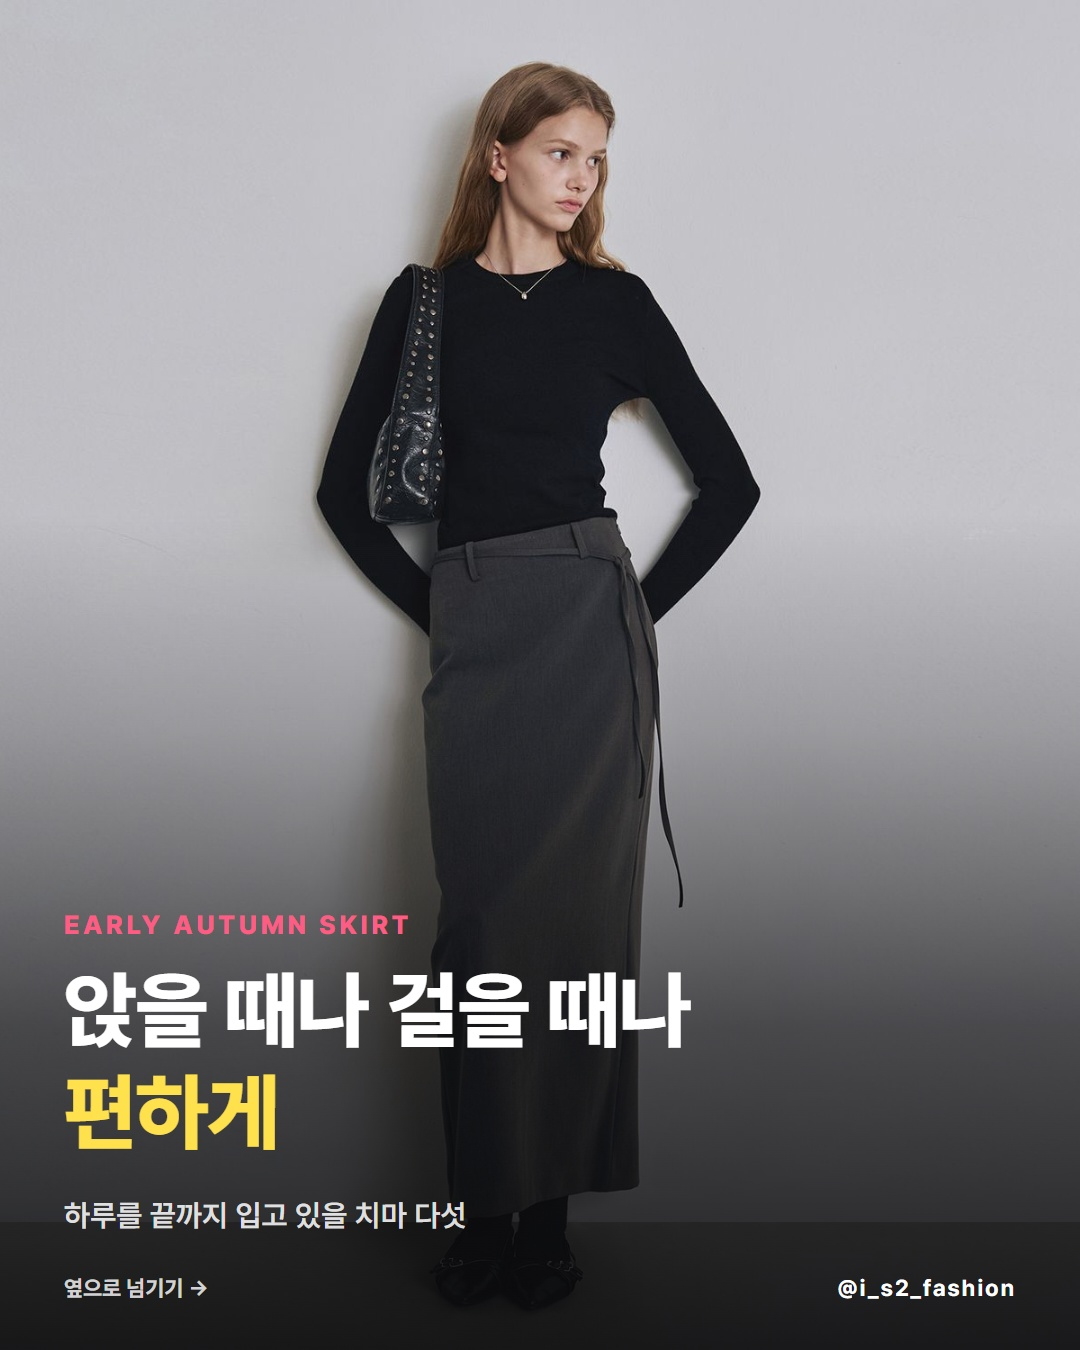
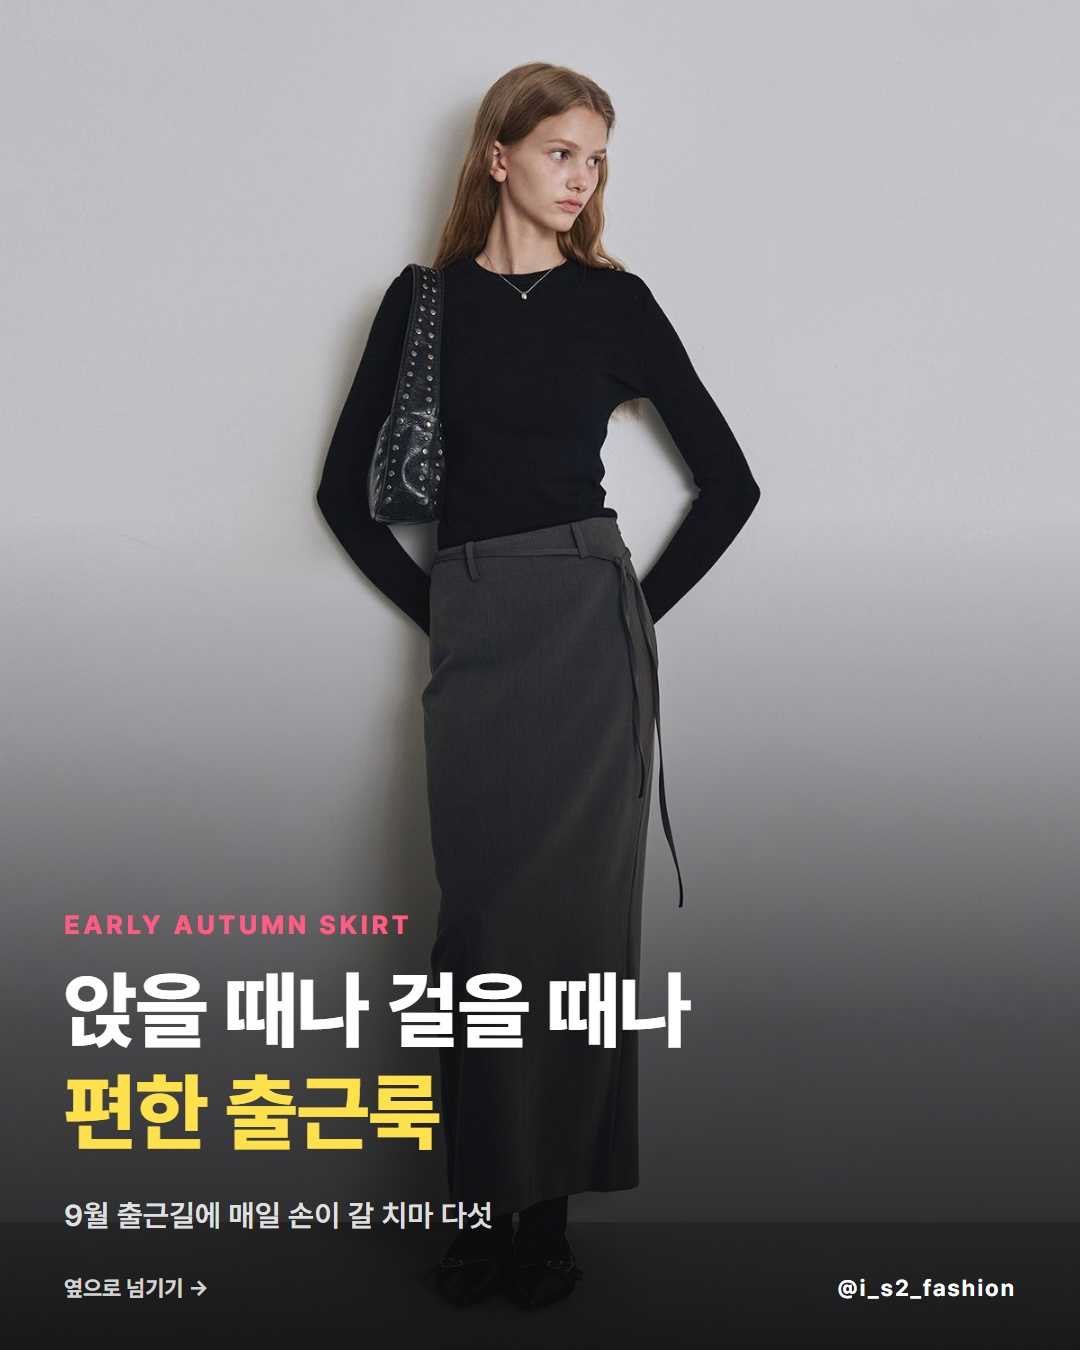
fix: 가을 스커트 소구문구를 출근룩으로 (사용자 지시)
표지 "앉을 때나 걸을 때나 / 편한 출근룩" · 서브 "9월 출근길에 매일 손이 갈 치마 다섯"
캡션 출근 맥락으로 재작성. 출근 언급 후기 근거(노우드6·커스텀어클락5·틸아이다이3·로에일1,
드로우핏0)를 result.md 에 기록.

Claude-Session: https://claude.ai/code/session_01DHzxXbsUDjvNN5eDKaHB8r

Changed region(s): [[0.0611, 0.7778, 0.4583, 0.9333]]

diff --git a/card-drafts/early-autumn-skirt/index.html b/card-drafts/early-autumn-skirt/index.html
@@ -67,7 +67,7 @@
 </style></head><body><div class="head"><h1>가을 스커트 카드뉴스 · 전면 이미지형 · @i_s2_fashion</h1><p>표지 → 드로우핏 · 틸아이다이 · 로에일 · 커스텀어클락 · 노우드 → CTA (7장) · 소구점: 활동성<br>2026-09-04 확정 전면 이미지형 · 상품 정보: 무신사·29CM 2026-09-08 실측(저렴한 몰 기준)</p></div><div class="toolbar"><button onclick="exportAll()">⬇ 전체 PNG 내보내기 (7장)</button></div><div class="board" id="board"></div>
 <script src="https://cdnjs.cloudflare.com/ajax/libs/html2canvas/1.4.1/html2canvas.min.js"></script><script>
 const cards=[
-{kind:'cover',img:'assets/cover-costumeoclock.jpg',pos:'50% 50%',lab:'표지',kicker:'EARLY AUTUMN SKIRT',title:'앉을 때나 걸을 때나<br><em>편하게</em>',sub:'하루를 끝까지 입고 있을 치마 다섯'},
+{kind:'cover',img:'assets/cover-costumeoclock.jpg',pos:'50% 50%',lab:'표지',kicker:'EARLY AUTUMN SKIRT',title:'앉을 때나 걸을 때나<br><em>편한 출근룩</em>',sub:'9월 출근길에 매일 손이 갈 치마 다섯'},
 {kind:'item',img:'assets/01-drawfit.jpg',pos:'50% 50%',lab:'드로우핏 우먼',badge:'10%',prod:'드로우핏 우먼 · <b>스티치 플리츠 미니 스커트</b>',title:'<em>계단을 올라도</em><br>부담스럽지 않은 길이',meta:'29CM <s>55,000원</s> 49,500원',proof:'후기 86개 · ⭐ 5.0',sp:'“겨울에 입기에는 조금 얇지만 핏도 예쁘게 잡히고, 길이도 부담스럽지 않을 정도로만 짧아서 계단 올라갈 때도 괜찮습니다 ㅎㅎ” —&nbsp;실제&nbsp;후기'},
 {kind:'item',img:'assets/02-tillidie.jpg',pos:'50% 50%',lab:'틸아이다이',badge:'18%',prod:'틸아이다이 · <b>골드 벨트 랩 스커트</b>',title:'앞트임이 포인트라<br><em>출근룩으로도 괜찮아</em>',meta:'29CM <s>111,000원</s> 91,020원',proof:'후기 358개 · ⭐ 4.5',sp:'“길이 적당하고 편해요. 출근룩으로도 괜찮고 두툼한 편이라 가을 겨울에 입기 좋아요. 먼지는 조금 달라 붙는편이고 앞에 트임이 있어서 포인트됩니다.” —&nbsp;실제&nbsp;후기'},
 {kind:'item',img:'assets/03-loeil.jpg',pos:'50% 50%',lab:'로에일',badge:'20%',prod:'로에일 · <b>마일드 코듀로이 핀턱 스커트</b>',title:'<em>차르르 떨어져서</em><br>다림질이 필요 없어',meta:'29CM <s>72,500원</s> 58,000원',proof:'후기 155개 · ⭐ 4.5',sp:'“길이가 참 길어요. 편안하게 입을 수 있네요. 허리가 밴딩이 아니어서 밥먹으면 꼭 끼지만.. 붕 뜨지 않아 좋아요 차르르 떨어져 다림질 필요 없네요” —&nbsp;실제&nbsp;후기'},

diff --git a/card-drafts/early-autumn-skirt/_preview.html b/card-drafts/early-autumn-skirt/_preview.html
@@ -15,9 +15,9 @@
   <div class="cards" id="cards"></div>
   <div class="caption">치마를 안 입게 되는 이유는 대개 예쁘지 않아서가 아니었어요 🍂
 
-앉으면 구겨지고, 계단에서 자꾸 잡아당기게 되고, 몇 시간 지나면 허리가 배기더라고요. 그래서 이번엔 예쁜 순서가 아니라 입고 있는 걸 잊고 지낼 수 있는지를 먼저 봤습니다. 다섯 벌 모두 후기에 그 얘기가 있습니다 🧺
+앉으면 구겨지고, 계단에서 자꾸 잡아당기게 되고, 몇 시간 지나면 허리가 배기더라고요. 아침에 입고 저녁까지 버텨야 하는 옷이면 그게 먼저입니다. 그래서 예쁜 순서가 아니라 사무실에서 하루를 보내도 신경 쓰이지 않는지를 기준으로 골랐습니다 🧺
 
-옷장에서 제일 안 꺼내게 되는 치마, 이유가 뭐예요 💬
+출근할 때 제일 자주 꺼내는 치마는 어떤 거예요 💬
 
 📌 브랜드 계정
 드로우핏 우먼 @drawfit_women

diff --git a/card-drafts/early-autumn-skirt/result.md b/card-drafts/early-autumn-skirt/result.md
@@ -4,7 +4,7 @@
 - **실험 번호**: #5 (브랜드 반응·공유) 연속
 - **가설**: 스커트 단독 축은 계정 상위 성과(07-19 롱스커트 누적 791·공유 2)를 낸 축이다. 7주 만에 스커트로 돌아오면서 **로스터 브랜드 1곳을 다시 넣으면**, 로스터 0곳으로 짜 최저 도달을 낸 직전 아우터 회차(119·공유 0)보다 도달·공유가 회복된다.
 - **바꾼 변수 (1개)**: 주제 축 — 데님 핏 변주(직전 회차) → **스커트 실루엣 변주**(플리츠 미니 · 랩 미니 · 코듀로이 플레어 롱 · H라인 맥시 · 슬릿 없는 스트레이트 롱). 색·기장으로 가르지 않았다.
-- **소구점(09-08 사용자 선택)**: 실루엣이 아니라 **활동성**. 표지 "앉을 때나 걸을 때나 / 편하게"(09-08 사용자 지정 문구), 서브 "하루를 끝까지 입고 있을 치마 다섯". 상품 5종은 그대로 두고 표지·캡션·카드 헤드라인·인용을 **활동성 근거가 있는 후기로 교체**했다(계단·앉을 때·늘어남·다림질·출근룩). 5장 전부 해당 후기가 실재한다 — 후보 축이었던 '두께'와 '후기 1,701개 검증'은 보류.
+- **소구점(09-08 사용자 선택)**: 실루엣이 아니라 **활동성**. 표지 "앉을 때나 걸을 때나 / **편한 출근룩**"(09-08 사용자 지정), 서브 "9월 출근길에 매일 손이 갈 치마 다섯", 서브 "하루를 끝까지 입고 있을 치마 다섯". 상품 5종은 그대로 두고 표지·캡션·카드 헤드라인·인용을 **활동성 근거가 있는 후기로 교체**했다(계단·앉을 때·늘어남·다림질·출근룩). 5장 전부 해당 후기가 실재한다 — 후보 축이었던 '두께'와 '후기 1,701개 검증'은 보류.
 - **대조군**: `20260904 초가을 데님`(09-08 잠정 293·공유 2) / `20260831 초가을 아우터`(09-08 측정 119·공유 0, 로스터 0곳) / 스커트 축 `20260718 롱스커트`(누적 791·공유 2).
 - **판정 기준**: +72h **도달 200 이상 + 공유 1건 이상**이면 우세 참고 신호. 도달 150 미만이면 "로스터 1곳만으로는 회복되지 않는다"로 기록.
 - **표지 유형**: 무드형 (실험 #1 보류 중). **디자인**: 전면 이미지형 3회차.
@@ -12,7 +12,8 @@
 ### ⚠ 변수 오염 / 주의
 1. **5종 전부 29CM**(무신사 4 + 29CM 1이었던 직전 회차와 다르다). 몰 구성이 바뀐 것이 도달에 영향을 줄 가능성은 낮지만 기록해 둔다.
 2. CTA 짤이 직전 회차와 **같은 파일**(`CARD/zzal/20260905.jpg`, zzal 폴더 최신). 2회 연속 같은 짤이다.
-3. 로스터 1곳 = 노우드(07-27 여름무드 좋아요). 핀카는 가을 스커트 상품이 없어(비치 커버업뿐) 이번 회차에서 제외했다.
+3. **출근룩 소구의 후기 근거**: 29CM 후기 전수에서 출근·회사·사무실 언급 — 노우드 6건 · 커스텀어클락 5건 · 틸아이다이 3건 · 로에일 1건. **드로우핏(미니)만 0건**이다. 해당 카드는 출근길 맥락의 '계단' 후기로 받쳤고, 표지는 개별 상품이 아니라 회차 전체의 선정 기준을 말한다. 지적이 나오면 드로우핏을 출근 근거가 있는 상품으로 교체한다.
+4. 로스터 1곳 = 노우드(07-27 여름무드 좋아요). 핀카는 가을 스커트 상품이 없어(비치 커버업뿐) 이번 회차에서 제외했다.
 
 ## 2. 게시 전 검증 (2026-09-08 · Playwright 헤드리스 Chrome, `verify.py` 전부 OK)
 - 5종 전부 구매 가능(`frontItemStockStatus=ON_STOCK`). 인용 후기 5건 원문 존재(통인용). 할인 검산 5건 일치.
